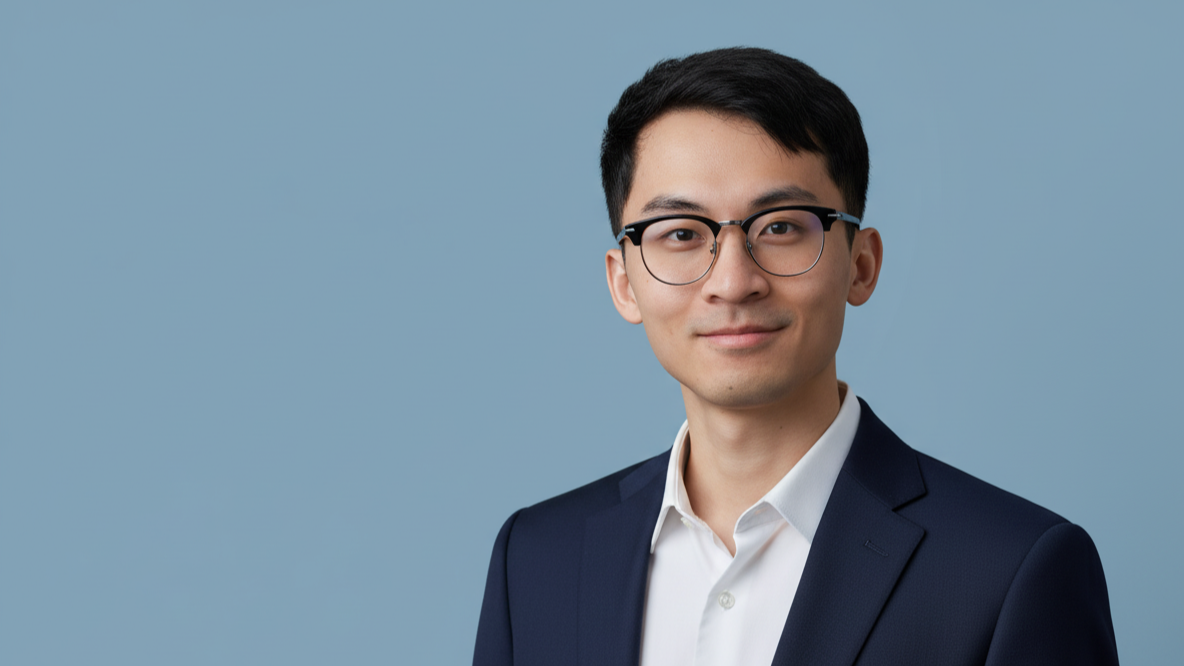
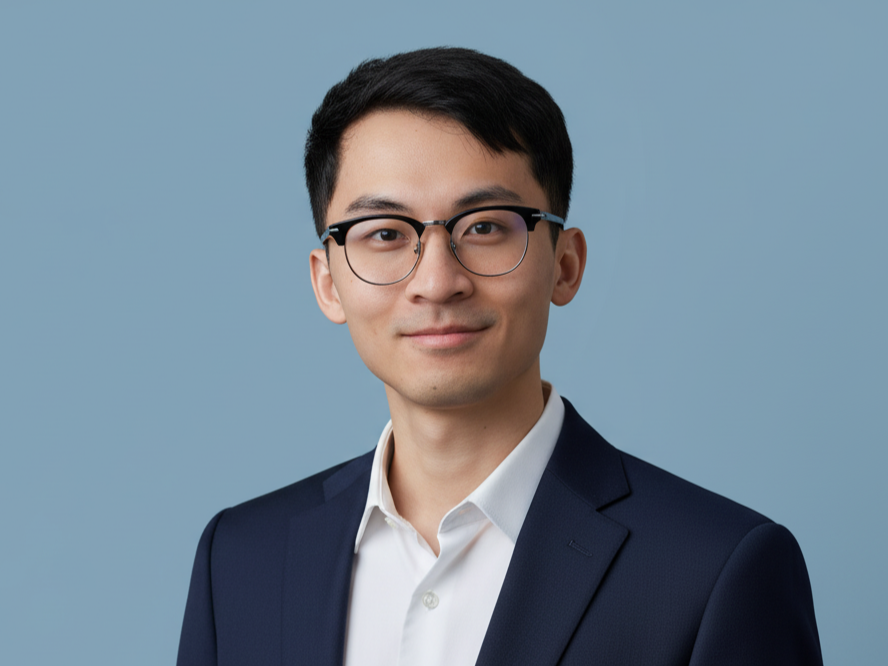
Refine hero layout and about profile photo

diff --git a/assets/css/main.css b/assets/css/main.css
@@ -279,12 +279,11 @@ section {
 }
 
 .hero-split {
-    display: grid;
-    grid-template-columns: 55% 45%;
     min-height: 100vh;
+    display: flex;
+    align-items: center;
 }
 
-/* Left: text content */
 .hero-left {
     display: flex;
     flex-direction: column;
@@ -292,46 +291,13 @@ section {
     gap: 1.4rem;
     padding-top: calc(var(--nav-h) + 3.5rem);
     padding-bottom: 5rem;
-    padding-right: 4rem;
-    /* align left edge with global container */
+    max-width: 680px;
     padding-left: max(2rem, calc((100vw - var(--container)) / 2 + 2rem));
+    padding-right: max(2rem, calc((100vw - var(--container)) / 2 + 2rem));
 }
 
-/* Right: full-height photo */
-.hero-right {
-    position: relative;
-    overflow: hidden;
-}
-
-.hero-right img {
-    width: 100%;
-    height: 100%;
-    object-fit: cover;
-    /* face is at ~62% x, ~15% y — keep it visible in right column */
-    object-position: 62% 15%;
-    display: block;
-}
-
-/* Gradient: blend left edge of photo into dark bg */
-.hero-right::before {
-    content: '';
-    position: absolute;
-    inset: 0;
-    background: linear-gradient(to right, rgba(12,11,10,0.55) 0%, transparent 28%);
-    z-index: 1;
-    pointer-events: none;
-}
-
-/* Gradient: fade top of photo under transparent navbar */
-.hero-right::after {
-    content: '';
-    position: absolute;
-    top: 0; left: 0; right: 0;
-    height: 140px;
-    background: linear-gradient(to bottom, rgba(12,11,10,0.75) 0%, transparent 100%);
-    z-index: 1;
-    pointer-events: none;
-}
+/* Hero photo hidden — shown in About section instead */
+.hero-right { display: none; }
 
 .hero-kicker {
     font-size: 0.67rem;
@@ -540,6 +506,19 @@ section {
     grid-template-columns: 1.2fr 1fr;
     gap: 4.5rem;
     align-items: start;
+}
+
+/* Small headshot in About */
+.about-photo {
+    width: 108px;
+    height: 108px;
+    border-radius: 50%;
+    object-fit: cover;
+    object-position: 48% 30%;
+    border: 1px solid var(--line-mid);
+    display: block;
+    margin-bottom: 1.25rem;
+    filter: grayscale(20%);
 }
 
 .pos-label {
@@ -1257,33 +1236,15 @@ a.cert-item { color: inherit; cursor: pointer; }
 
     .container { padding: 0 1.25rem; }
 
-    /* Hero: stack on mobile */
-    .hero-split {
-        grid-template-columns: 1fr;
-        grid-template-rows: auto;
-    }
-
     .hero-left {
         padding: calc(var(--nav-h) + 2.5rem) 1.5rem 3rem;
-        order: 2;
-    }
-
-    .hero-right {
-        order: 1;
-        height: 52vw;
-        min-height: 240px;
-        max-height: 380px;
-    }
-
-    .hero-right img {
-        object-position: 62% 10%;
+        max-width: 100%;
     }
 
     .hero-name { font-size: clamp(2.2rem, 9vw, 3rem); }
 
     .hero-metrics { max-width: 100%; }
 
-    /* 手機版移除 navbar 底部分隔線，讓照片漸層自然過渡 */
     #navbar.scrolled { box-shadow: none; }
 
     .nav-links { display: none; }

diff --git a/assets/js/data.js b/assets/js/data.js
@@ -39,7 +39,7 @@ var PORTFOLIO = {
         posLabel: 'AI 應用規劃師 · 技術轉譯者 · 落地型 PM',
         quote: '「消除商務決策與技術開發間的資訊對等偏差，確保投資能轉化為可量化的數值。」',
         bio: [
-            '作為一名具備工程底蘊與系統分析思維的實踐者，我專注於在複雜的商業環境中定位「技術槓桿點」。我的價值在於讓技術、流程與商業目標能夠真正對齊。',
+            '作為一名具備工程底蘊與系統分析思維的實踐者，我專注於在複雜的商業環境中定位「槓桿點」。我的價值在於讓技術、流程與商業目標能夠真正對齊。',
             '在 ASUS、雄獅旅遊與騰雲科技期間，分別掌握了產品製造流程與軟體維運的穩定性要求。在綠岩能源期間，更是親自一條龍完成從發現、發想到開發交付，透過觀察行政與財會部門的重複性痛點，親手利用 AI 工具建立自動化架構。'
         ],
         values: [

diff --git a/assets/js/main.js b/assets/js/main.js
@@ -71,7 +71,11 @@
         var mainEl = document.getElementById('about-main');
         if (mainEl) {
             var bioHtml = d.bio.map(function (p) { return '<p>' + p + '</p>'; }).join('');
+            var photo  = PORTFOLIO.hero.photo
+                ? '<img class="about-photo" src="' + PORTFOLIO.hero.photo + '" alt="' + PORTFOLIO.hero.photoAlt + '">'
+                : '';
             mainEl.innerHTML =
+                photo +
                 '<p class="pos-label">' + d.posLabel + '</p>' +
                 '<blockquote class="pull-quote">' + d.quote + '</blockquote>' +
                 bioHtml;
